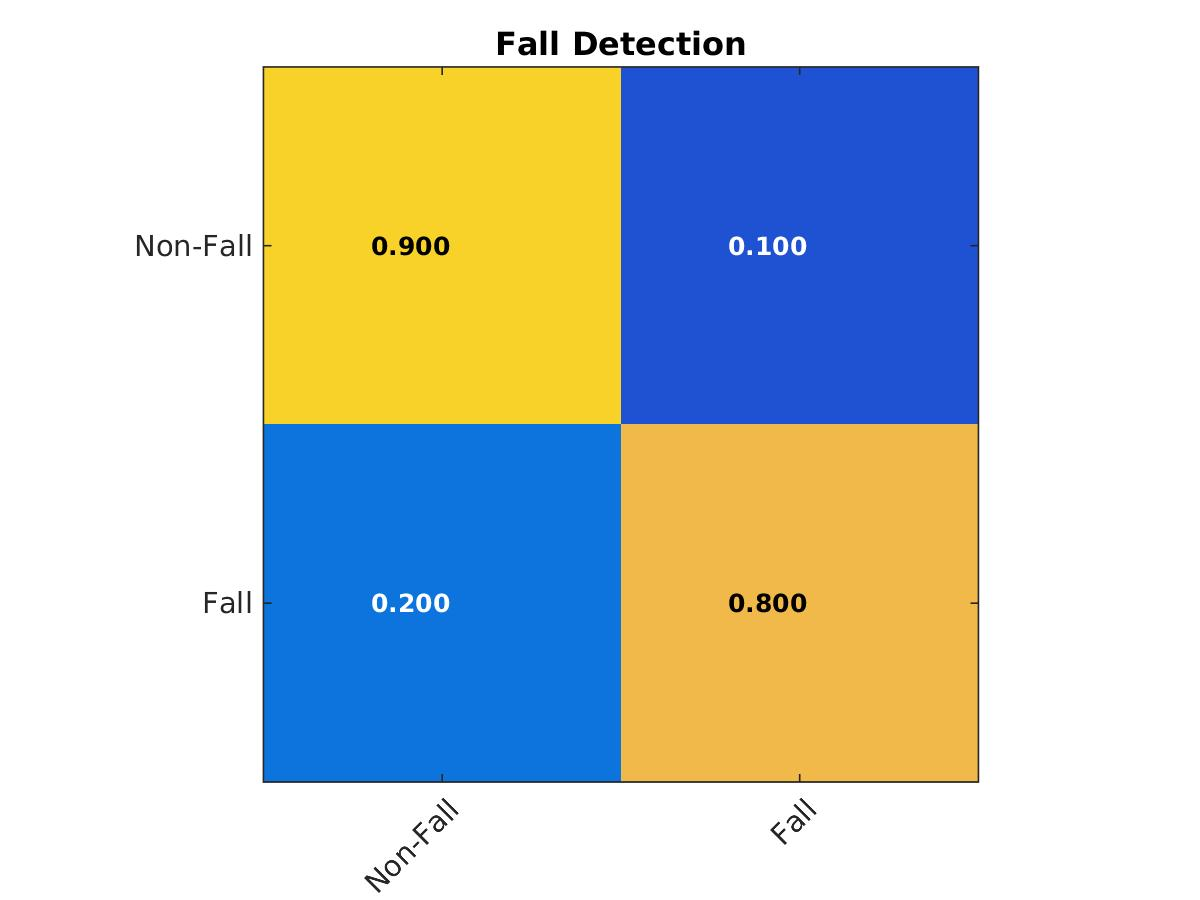
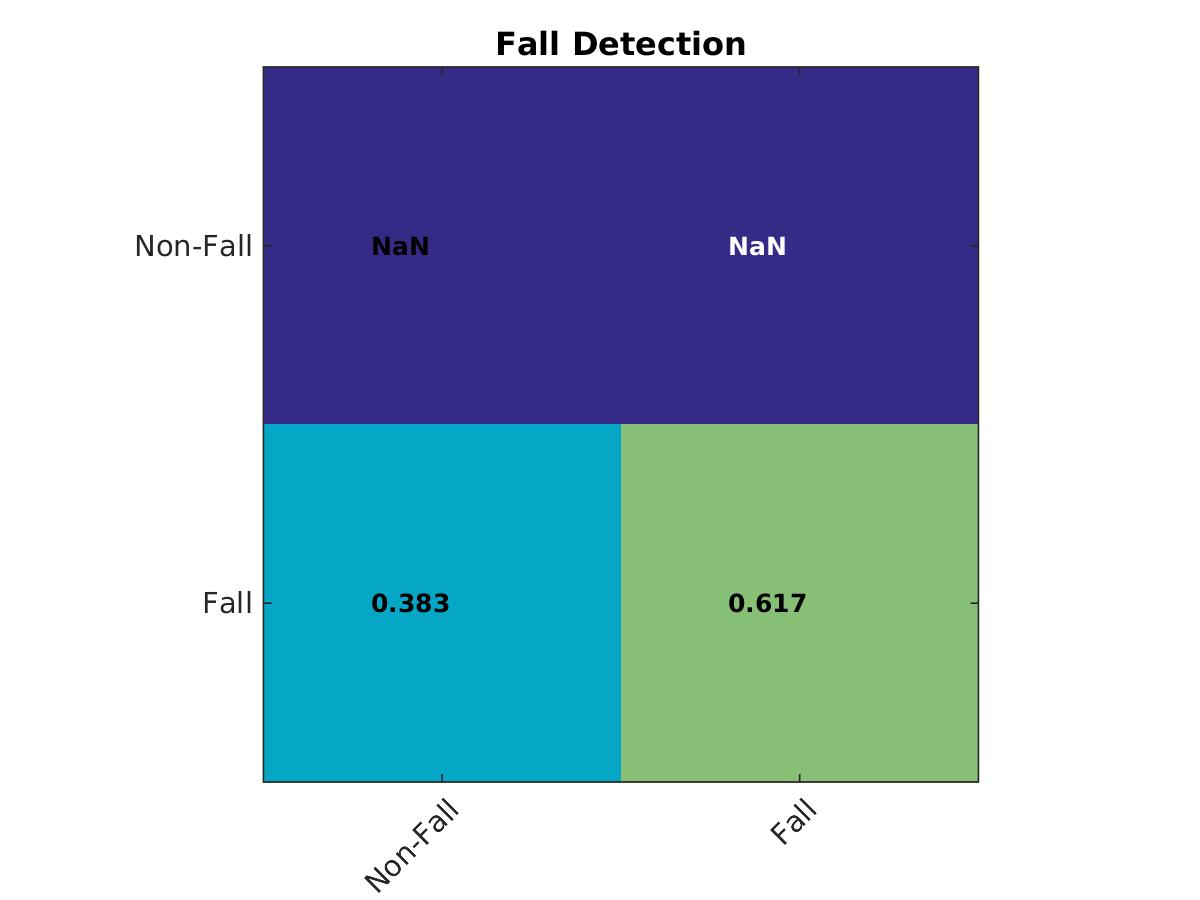
bug fixes and added LOOCV to hyperparameters

diff --git a/CalcFeatures.m b/CalcFeatures.m
@@ -37,7 +37,10 @@ FC=[];
 %                     end
 %                 end
                 for ii=1:5
-                    DCFFT=fft(data{j}(floor(length(data{j})/5*(ii-1)+1):floor(length(data{j})/5*ii),:));
+                    d=data{j}(floor(length(data{j})/5*(ii-1)+1):floor(length(data{j})/5*ii),:);
+%                     m=mean(d);
+                    m=zeros(1, size(d,2));
+                    DCFFT=fft(d-repmat(m,[size(d,1) 1]));
                     for jj=1:8
                         for kk=1:3 %axis of sensor
                             DCFFT_re=[DCFFT_re trapz(real(DCFFT(floor(length(DCFFT)/8*(jj-1)+1):floor(length(DCFFT)/8*jj),kk)'))];
@@ -130,7 +133,10 @@ FC=[];
 %                     end
 %                 end
                 for ii=1:5
-                    DDCFFT=fft(data{j}(floor(length(data{j})/5*(ii-1)+1):floor(length(data{j})/5*ii),:));
+                    d=DSLN(floor(length(DSLN)/5*(ii-1)+1):floor(length(DSLN)/5*ii),:);
+%                     m=mean(d);
+                    m=zeros(1, size(d,2));
+                    DDCFFT=fft(d-repmat(m,[size(d,1) 1]));
                     for jj=1:8
                         for kk=1:3
                             DDCFFT_re=[DDCFFT_re trapz(real(DDCFFT(floor(length(DDCFFT)/8*(jj-1)+1):floor(length(DDCFFT)/8*jj),kk)'))];
@@ -224,7 +230,10 @@ FC=[];
 %                     end
 %                 end
                 for ii=1:5
-                    DCFFT=fft(data{j}(floor(length(data{j})/5*(ii-1)+1):floor(length(data{j})/5*ii),:));
+                    d=data{j}(floor(length(data{j})/5*(ii-1)+1):floor(length(data{j})/5*ii),:);
+%                     m=mean(d);
+                    m=zeros(1, size(d,2));
+                    DCFFT=fft(d-repmat(m,[size(d,1) 1]));
                     for kk=1:2
                         DCFFT_re=[DCFFT_re trapz(real(DCFFT(:,kk)'))];
                         DCFFT_im=[DCFFT_im trapz(imag(DCFFT(:,kk)'))];

diff --git a/Main_GLM_ACT.m b/Main_GLM_ACT.m
@@ -88,7 +88,7 @@ end
 if split
     subj=unique(labels.subject);
 else
-    subj={'CF000'}
+    subj={'CF000'};
 end
 
 for indCV=1:length(subj)
@@ -140,6 +140,16 @@ for indCV=1:length(subj)
     fvar.eps= epsF;
     fvar.nzstd= nzstd;
 
+    cvSubj=unique(labels_train.subject);
+    folds_nr=length(cvSubj);
+    fold_id=zeros(length(labels_train.subject), 1);
+    
+    % Assign subject folds
+    for indCVSubj=1:length(cvSubj)
+        inds=strcmp(labels_train.subject,cvSubj{indCVSubj});
+        fold_id(inds)=indCVSubj;
+    end
+    
     FSz= size(FN,2); %feature size
     DSz= size(FN,1); %dataset size
 
@@ -252,9 +262,9 @@ for indCV=1:length(subj)
     % crate=(numel(L0)-sum(abs(bind-L0)))/numel(L0);
 
 
-    %if ~split
-    % save class_params_ACT_nobar fvar b  nz_ind
-    %end
+    if ~split
+        save class_params_ACT_nobar fvar b  nz_ind
+    end
 
     %end;
     %% Testing the model on Test Data (if split is set to 1)
